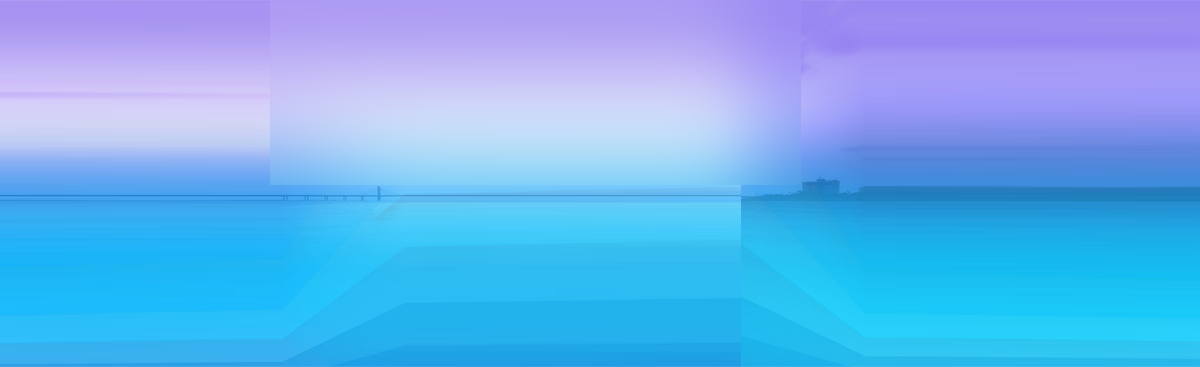
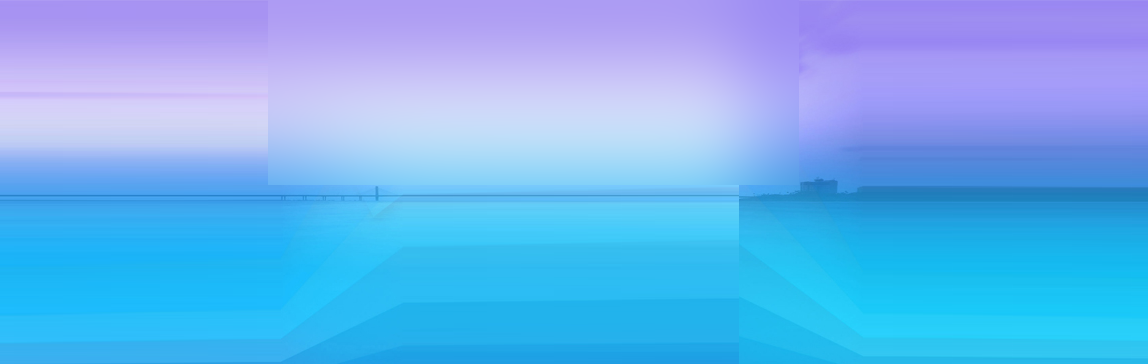
Hero paralax #16

diff --git a/index.html b/index.html
@@ -35,8 +35,8 @@
         <link rel="stylesheet" href="./css/pages/home.css" />
     </head>
     <body>
-        <section class="container bg-blue">
-            <div class="short-row hero">
+        <section class="container bg-blue hero">
+            <div class="short-row">
                 <img class="logo" src="./img/logo.png" alt="Logo" />
                 <h1 class="main-title">Coming soon</h1>
                 <p class="main-description">

diff --git a/css/pages/home.css b/css/pages/home.css
@@ -1,4 +1,13 @@
-.container > .hero {
+.container.hero {
+    min-height: 100vh;
+    background-color: red;
+    background-image: url(../../img/background.png);
+    background-repeat: no-repeat;
+    background-position: bottom;
+    background-size: cover;
+    background-attachment: fixed;
+}
+.container.hero > .short-row {
     display: flex;
     flex-direction: column;
     align-items: center;

diff --git a/README.md b/README.md
@@ -21,6 +21,7 @@ Design: [Coming soon](https://cdn.discordapp.com/attachments/850245533838868480/
 -   CSS animation
 -   form
 -   FontAwesome icons
+-   CSS units: vh, vw, vmin, vmax
 
 ## 🧰 Getting Started
 
